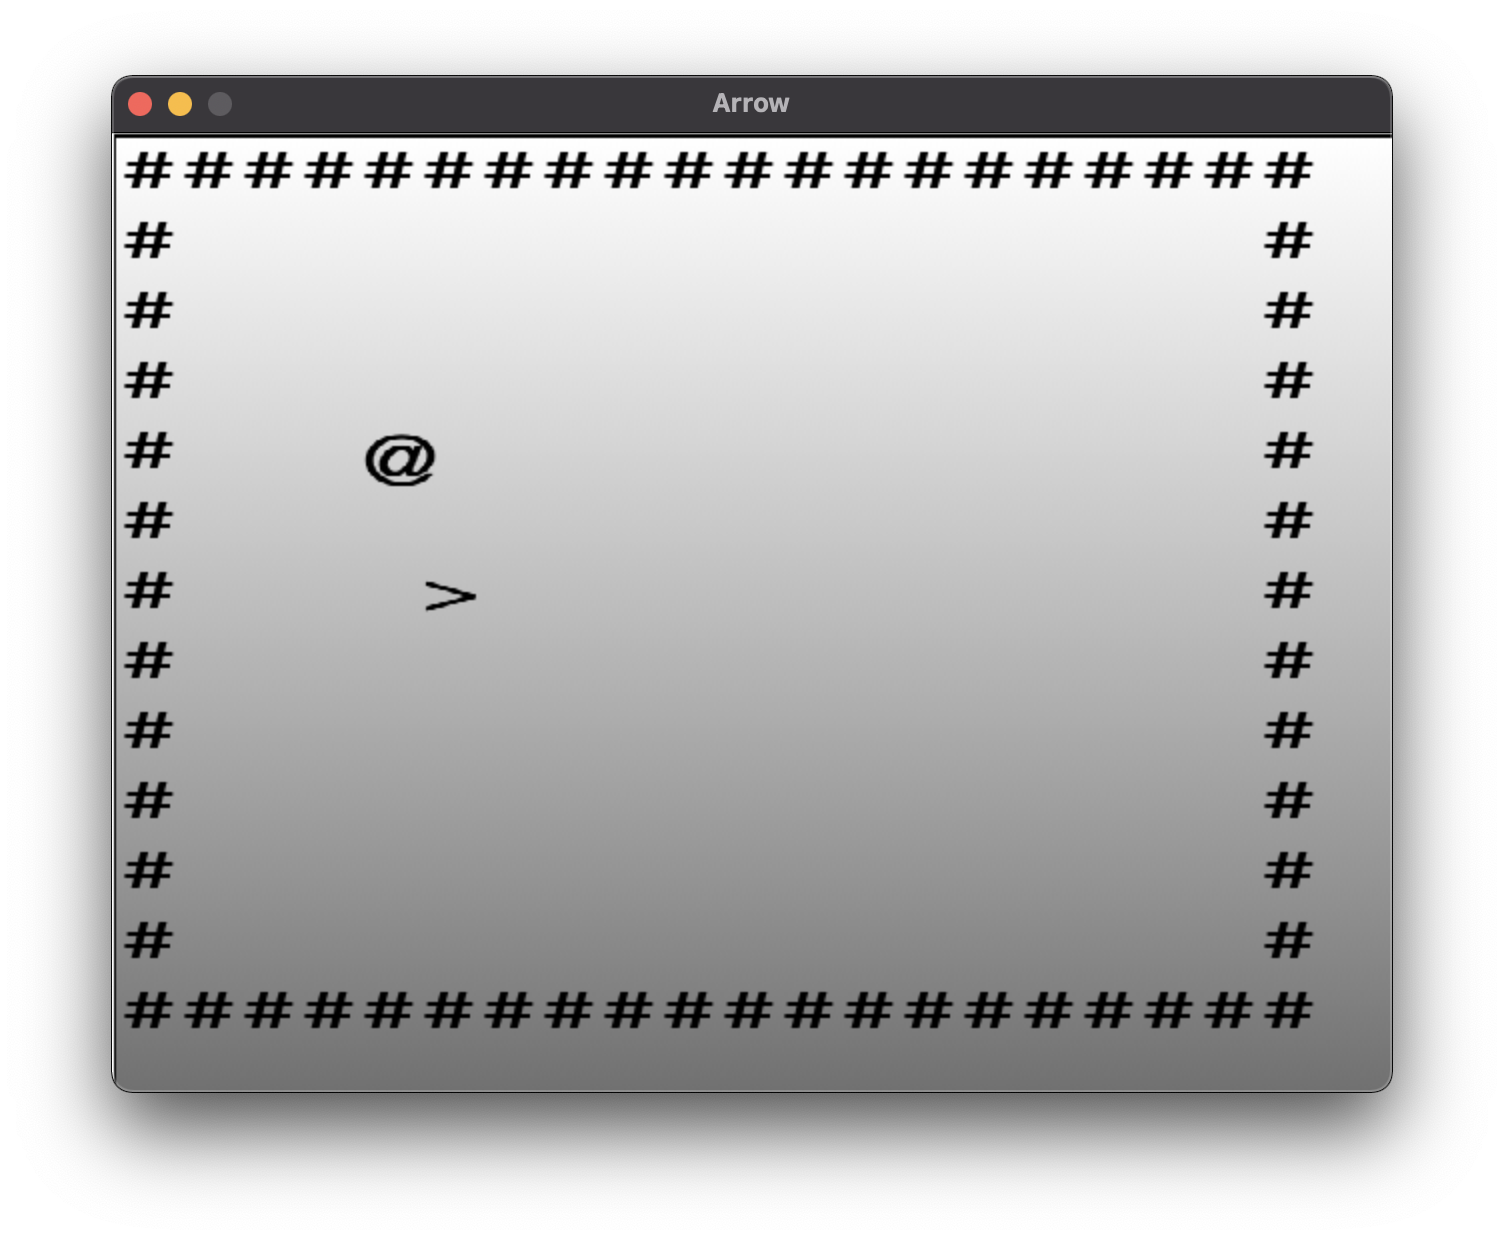
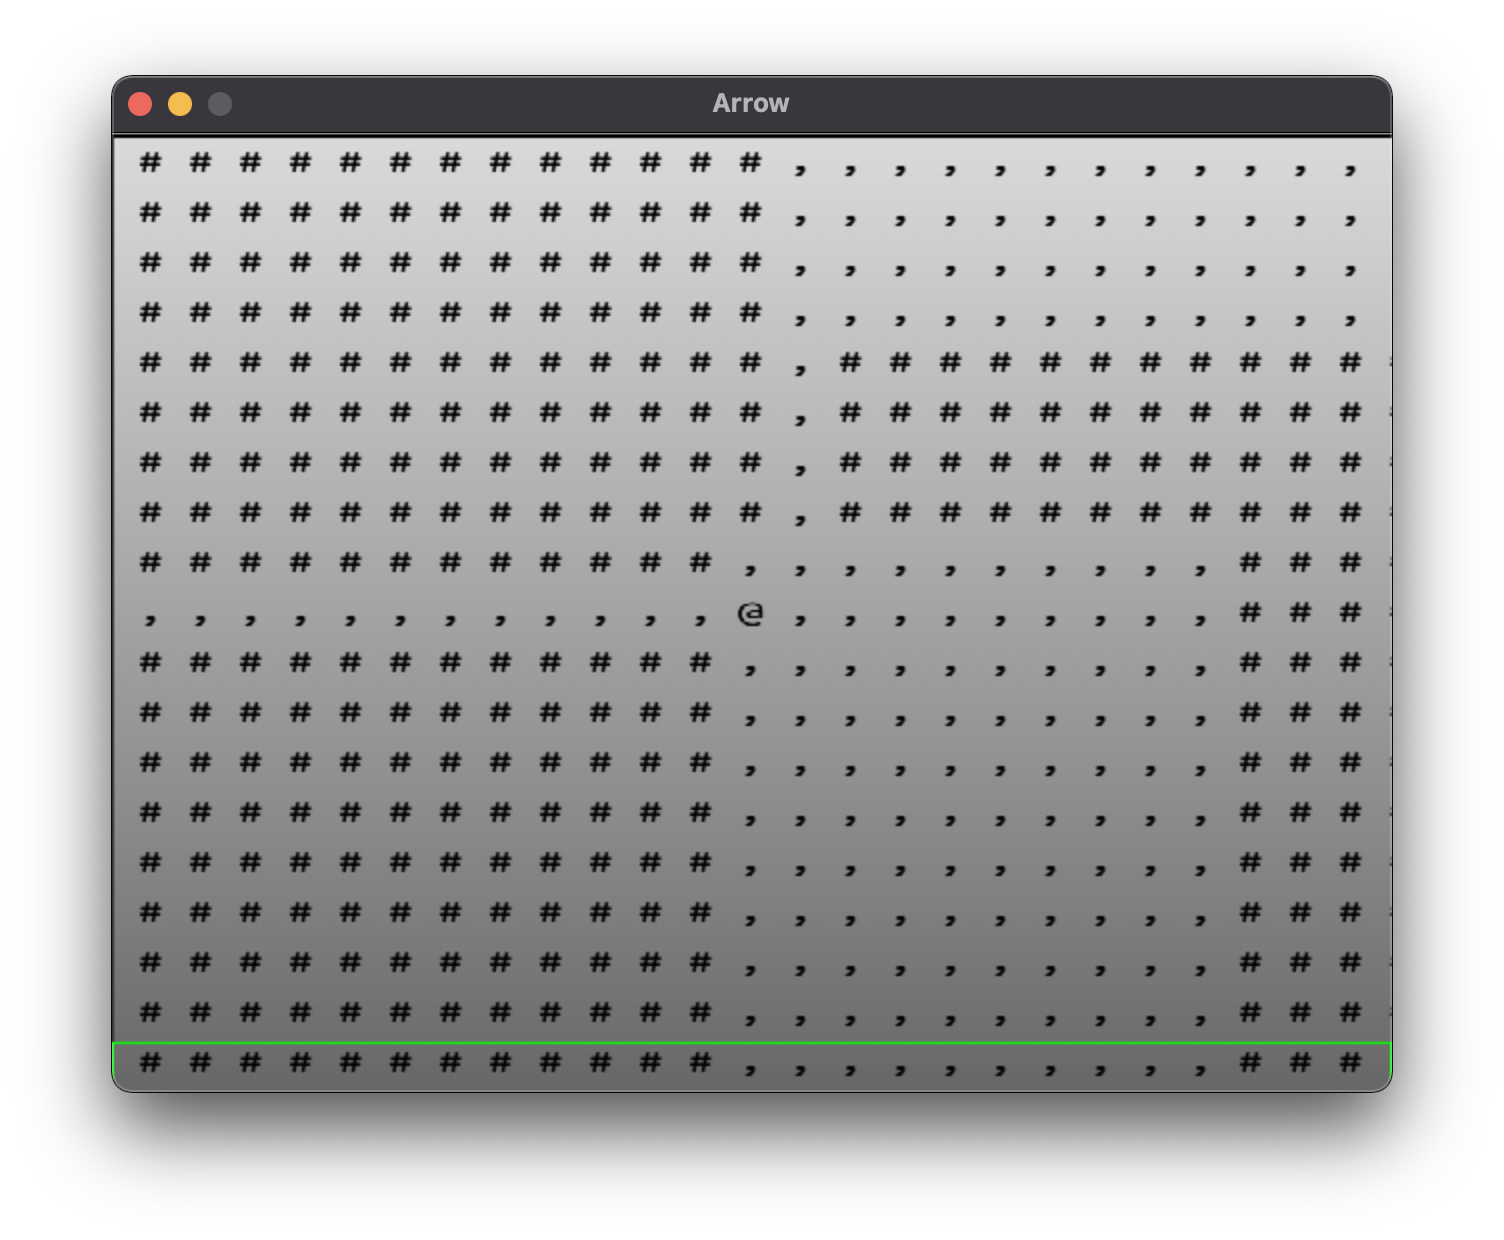
README.md

diff --git a/README.md b/README.md
@@ -3,9 +3,10 @@
 SDL2 demo w/ Haskell
 
 ## Features
-![hero.bmp](images/hero.bmp)
+<center><img src="images/hero.bmp"></a></center>
 
-1. the Hero `@`
+1. rogueDungeon with `MonadRandom`
+1. Camera follows `@`
 1. SDL2
 1. Fun
 
